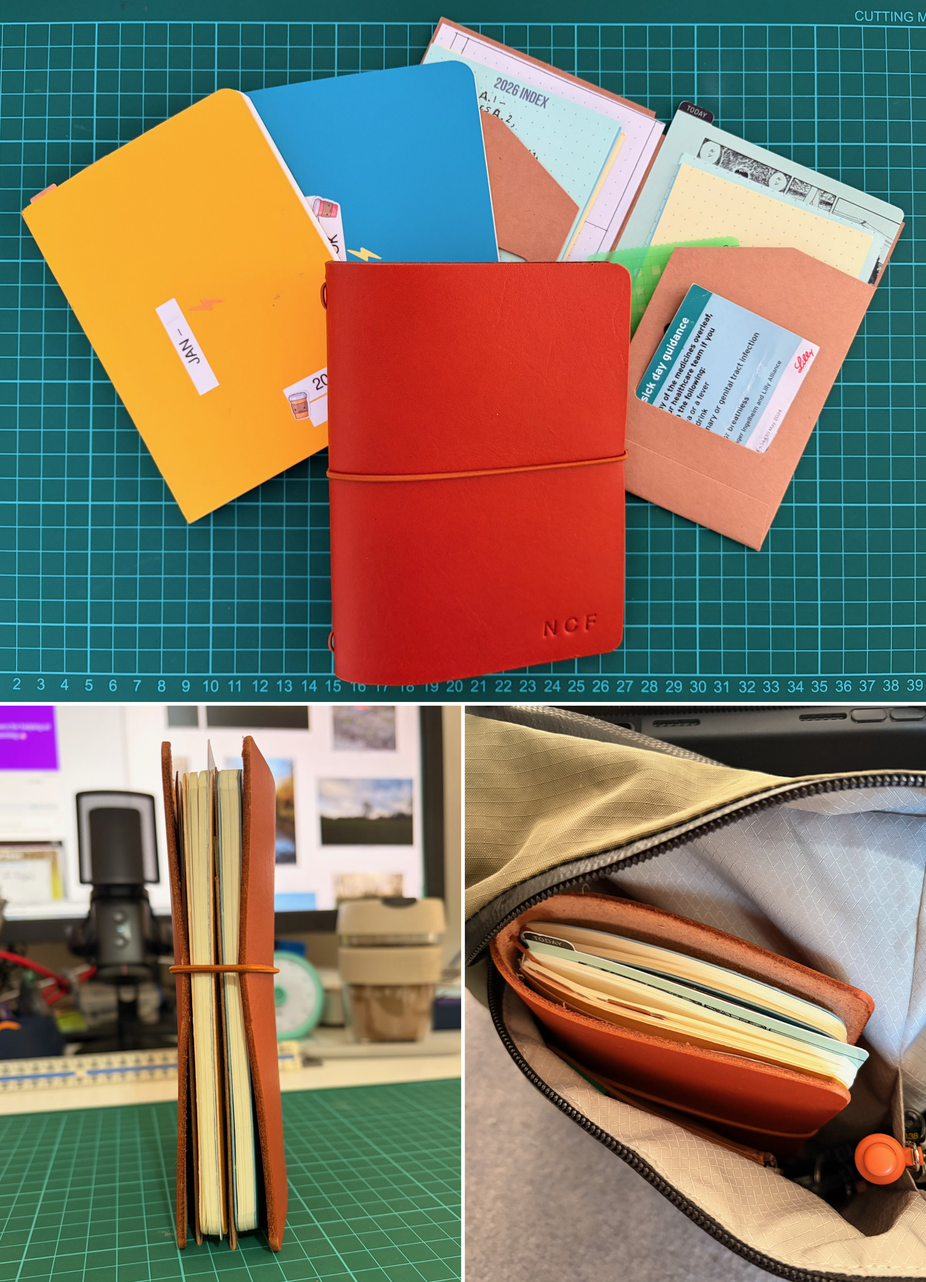
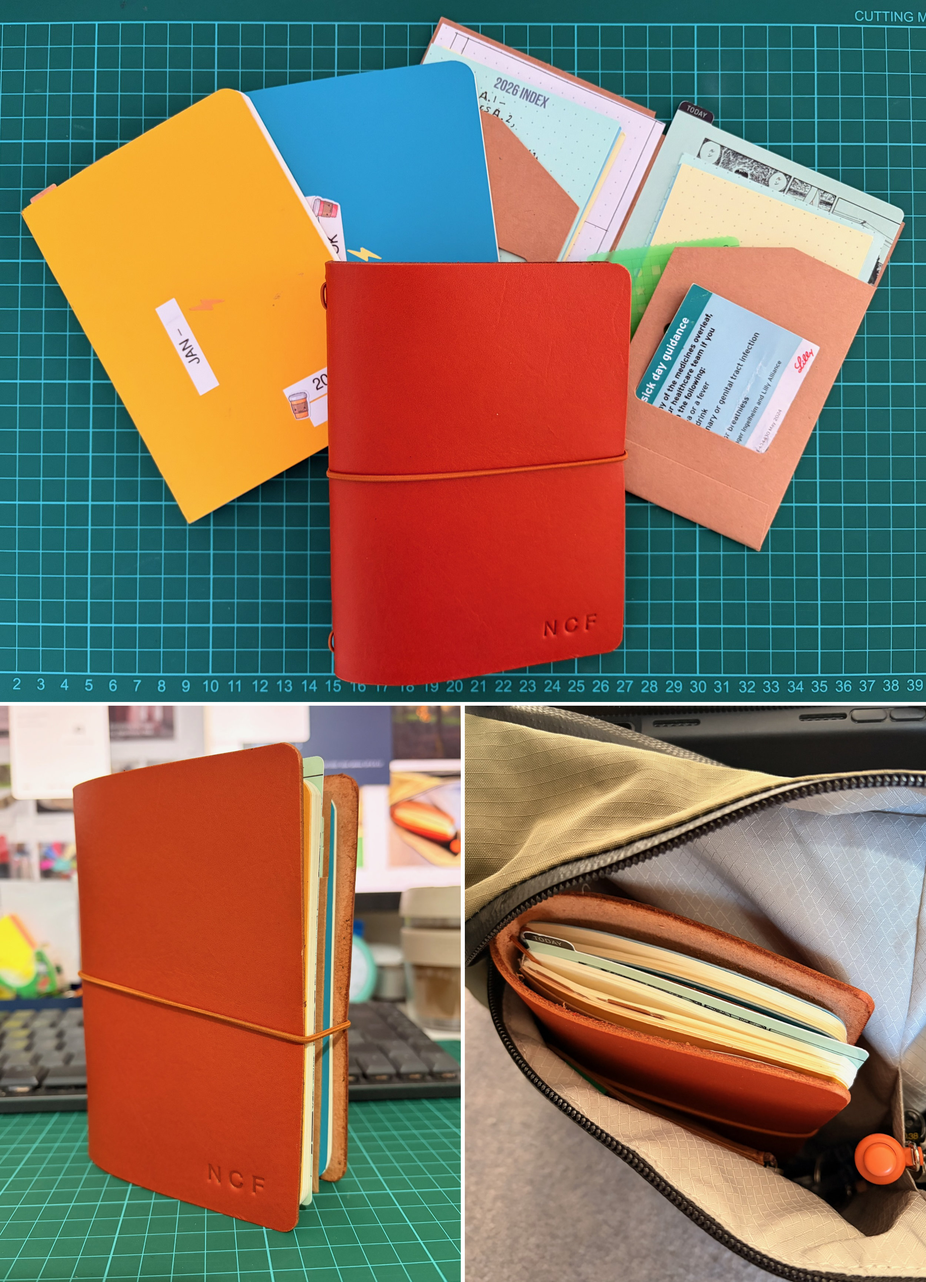
new notebook post

Changed region(s): [[0.0, 0.5308, 0.4992, 1.0]]

diff --git a/content/post/2026-01-19-Well-that-didnt-last-long-sort-of.md b/content/post/2026-01-19-Well-that-didnt-last-long-sort-of.md
@@ -1,0 +1,39 @@
+---  
+date: '2026-01-19' 
+title:  Well, that didn't last long, sort of  
+slug: Well-that-didnt-last-long-sort-of  
+---  
+Just over two weeks ago I wrote[From pocket notebook to Traveler’s Notebook, my Bullet Journal journey](https://blog.neilcford.uk/post/from-pocket-notebook-to-travelers-notebook/), which as the title suggests was about using a [Traveler's Company Passport Notebook](https://www.travelers-company.com/products/trnote/starter-kit-passport) as my everyday carry notebook.
+
+In the post I wrote:
+
+>Two days in and I’m loving the setup. We’ll see how I feel in a month or two.
+
+I'm sorry to say I lasted five days.
+
+I haven't abandoned the principle or the process, just the products in use. I quickly discovered that the pages in a passport sized insert were too small for my messy handwriting, far too many things were taking up two lines, when in a slightly larger notebook, they would have only been one. Or I found myself cutting short my notes to fit, which really defeated the point.
+
+At the same time I had been flipping backwards and forwards on what I was going to use as a journal / thinking /commonplace book. I kept circling back to some kind of A5 notebook, again because of page size requirements, contemplating re-tasking an existing [Leuchtturm1917 dot grid](https://www.leuchtturm1917.co.uk/notebook-classic.html) I already had or possibly using a Tamoe River paper notebook from [Miso Paper](https://misopaper.co.uk/product/tomoe-river-paper-a5-notebook-cream-68gsm-dot-grid/). But my problem was that I didn't really want to carry around an A5 notebook, the very reason why I had switched to pocket notebooks and then the Traveler's Notebook.
+
+It was whilst out for a walk, and coffee, that I realised I had a solution to both issues already - the [Bullet Journal Pocket Notebook](https://www.leuchtturm1917.co.uk/bullet-journal-pocket.html) that I had been using before. The beauty of this notebook is that when open and turned to a landscape orientation, the double page spread is the same size as an A5 page. It's really designed to be used that way as the page numbers are the bottom of each two page spread.
+
+![Photo of a Leuchtturm1917 Bullet Journal Pocket Notebook placed on top of a Leuchtturm1917 A5 dot grid notebook](https://blog.neilcford.uk/images/20260119-Notebook-001.jpeg)
+
+Now I didn't want to combine my bullet journal with my journal / thinking book, but thankfully the notebooks come in a small range of colours (yellow, black and turquoise at the time of writing), so all I would need to do was get a second colour, then I would have two small notebooks that I could easily store in my bag. I was going to miss the organisation of the Traveler's Notebook, but there was an answer to that, to be found on Etsy.
+
+I knew that there were a number of makers in the UK who made custom leather notebook covers, quite a few in a style very similar to the Traveler's Company products. In particular I was aware of [FinStudioShop](https://www.etsy.com/uk/shop/FinStudioShop) whose covers I had seen mentioned elsewhere as being really good and a very close match to what I had already, which ideally was what I was looking for. A quick search on Etsy, and a read through of some of the recent reviews, and I ordered an [A6 BIFOLD Leather Journal Cover](https://www.etsy.com/uk/listing/4393504972/bifold-leather-journal-cover-valora-2-22?show_sold_out_detail=1&ref=nla_listing_details) along with an [A6 craft folder](https://www.etsy.com/uk/listing/4357682168/craft-card-holder-for-leather-journals?show_sold_out_detail=1&ref=nla_listing_details) which they also make. The only problem was that. due to the popularity of their products, delivery was going to be at least two weeks. (In actual fact, shortly after I placed my order they paused taking new orders for a while so that they could get through the existing orders they had!)
+
+The question then became, do I wait for the new cover and folder to arrive, and continue to use the Passport until they do, or do I bite the bullet and revert to using a pocket notebook immediately? I suspect you can guess the answer! Some turquoise notebooks were ordered (they come in packs of three) and I set to work copying over the small amount in my Passport on to a new yellow Bullet Journal Pocket Notebook that I had on hand. 
+
+One other change I made at the same time was to change how I labelled my notebooks. I decided to go from a numerical scheme to an alphabetic one, with the new notebooks being labeled A and B. I did this to make the Index a little clearer. Now it has entries like January: A.1 and The Shallows: B.3 for example. Each time a notebook gets filled, its replacement will just be the next in the sequence. Hopefully straightforward and uncomplicated.
+
+![A yellow and a turquoise Leuchtturm1917 Bullet Journal Pocket Notebook](https://blog.neilcford.uk/images/20260119-Notebook-003.jpeg)
+
+Now I have both a bullet journal for monthly logs, daily logs, meeting notes, etc., and a journal / thinking book for hashing out ideas, more contemplative writing, notes on books I'm reading and quotes that grab my eye, all neatly contained in a leather cover, along with some supporting items, that neatly fit in one of the pockets of my everyday carry bag, an [Alpaka Flight Satchel](https://alpakagear.com/products/flight-satchel).
+
+![Photos showing the new leather cover, the notebooks and the craft folder; everything put together in the cover; the final item in its place in my bag](https://blog.neilcford.uk/images/20260119-Notebook-004.jpeg)
+
+This wasn't the cheapest exercise to undergo, but in the long run it was worth it to get where I am now, with a setup that I'm confident will last for some time. It might get tweaked, but the core will remain the same, unless of course the notebooks get discontinued, though I do have a stash, and I'm sure I could find suitable replacements should I ever need to. For now the Traveler's Notebook sits unused, but I'm determined it won’t remain so, it's just too nice to languish in a box or drawer. 
+
+There will, without doubt be an update on progress in due course...
+
